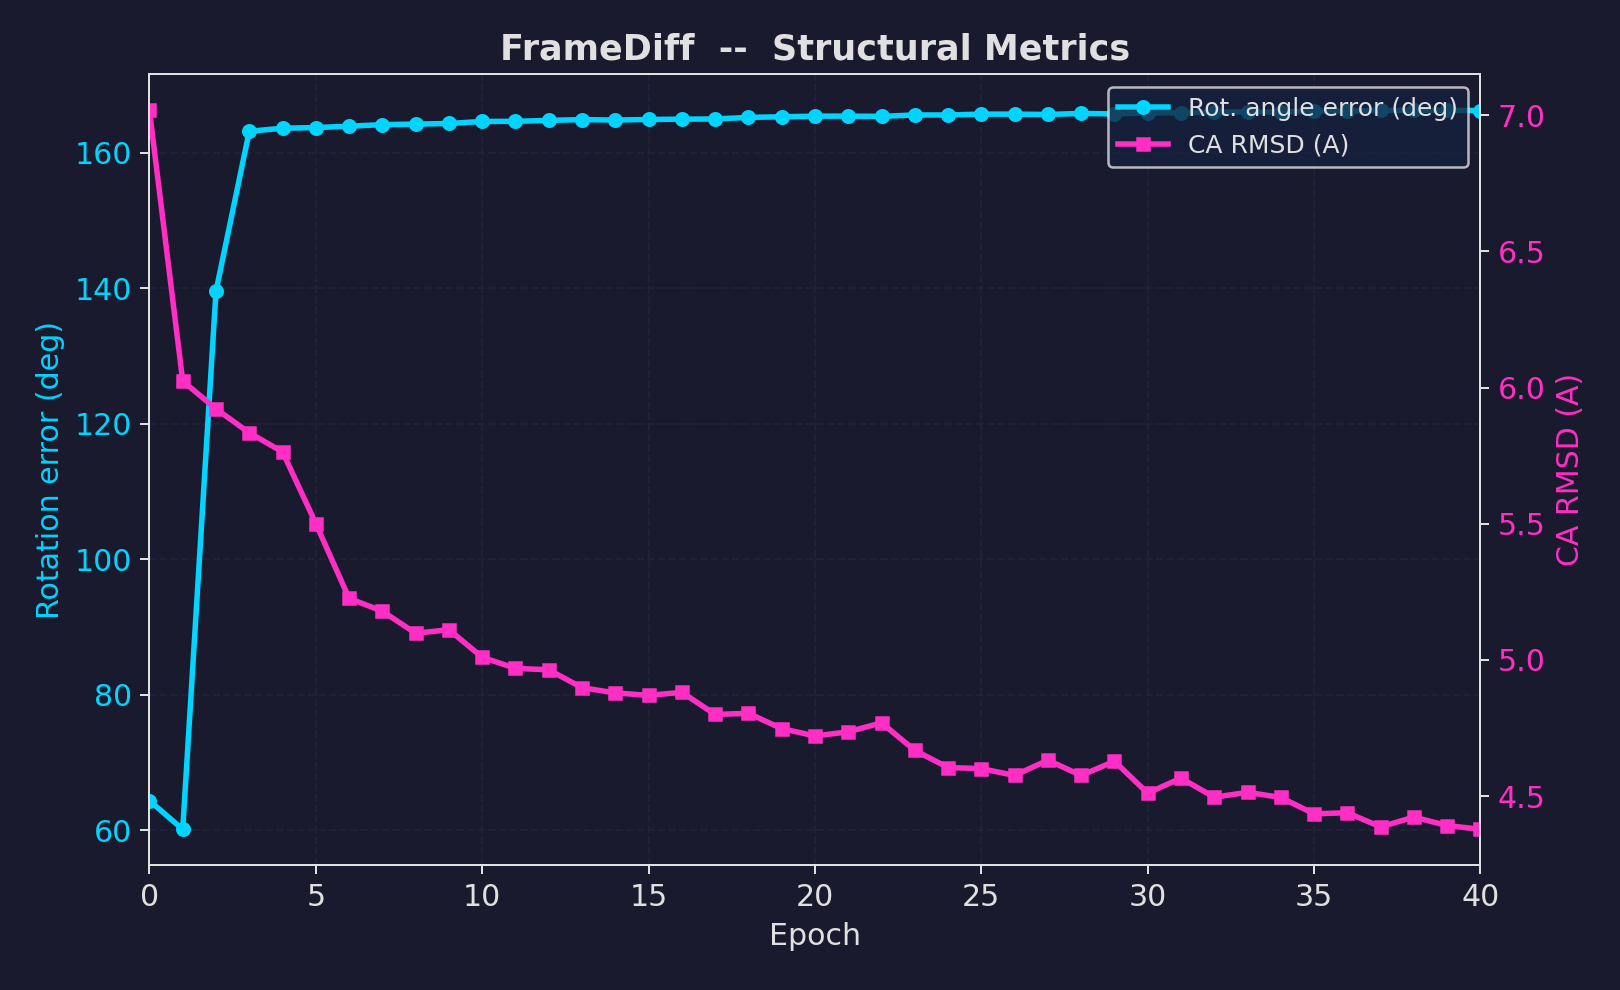
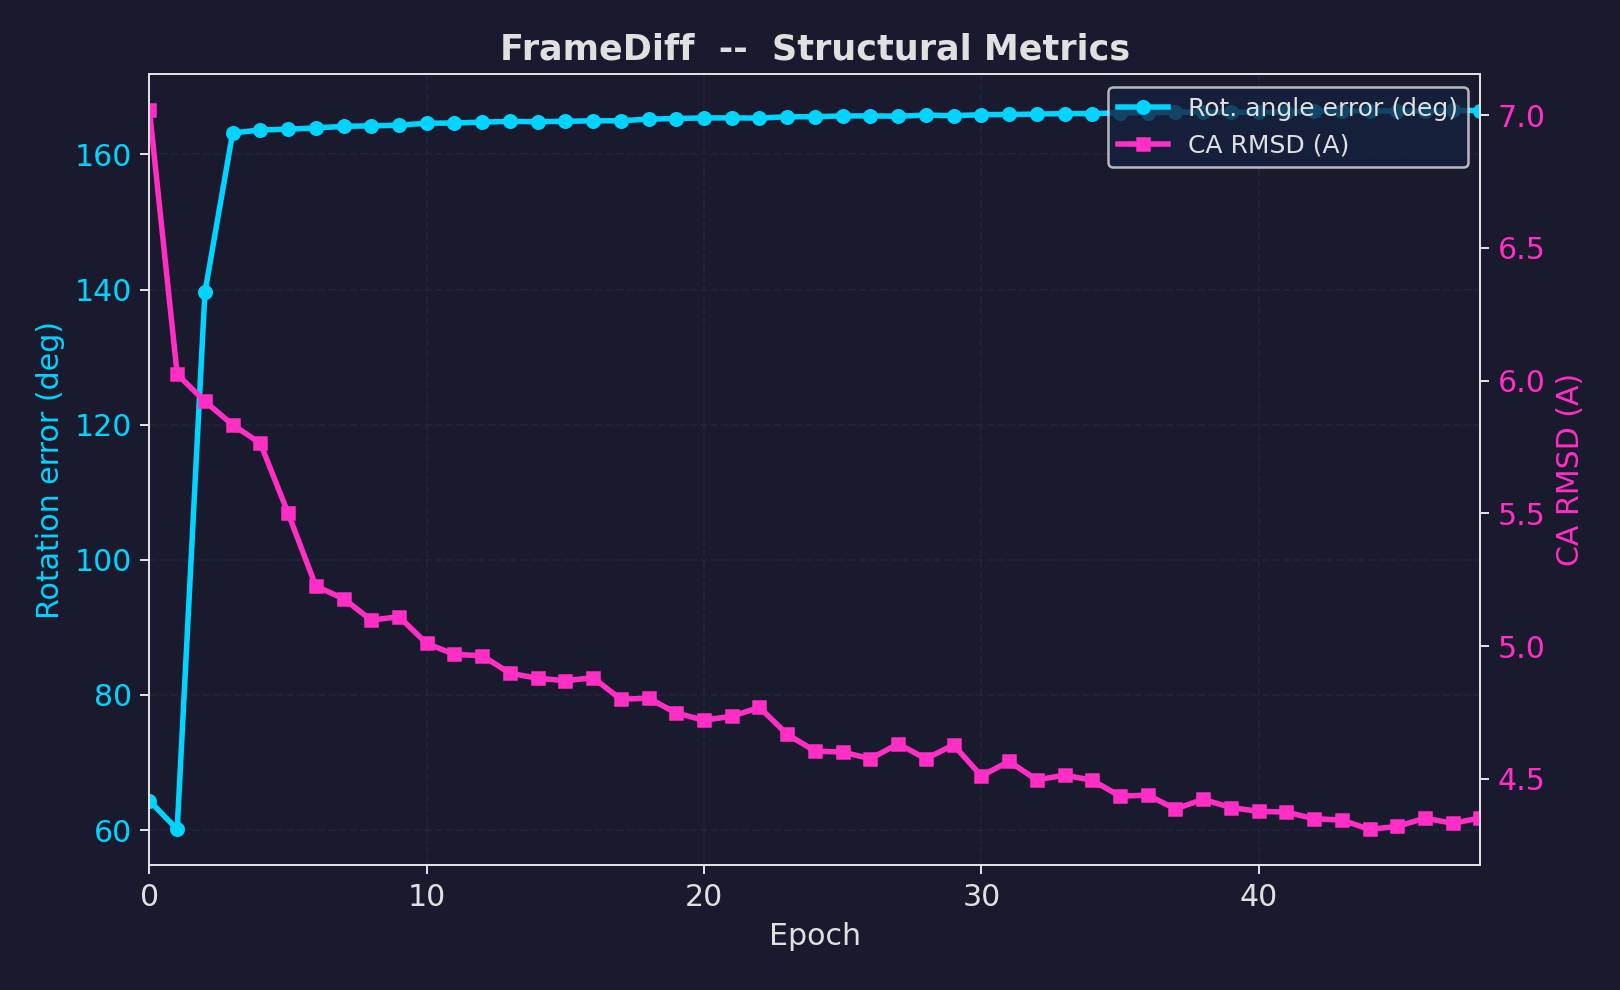
Update FrameDiff: 49 epochs, new best val=0.298, training interpretation

diff --git a/minifold.html b/minifold.html
@@ -263,25 +263,55 @@
       <table class="metrics-table" style="width:100%">
         <thead>
           <tr>
-            <th>Epoch</th><th>L_x</th><th>L_r</th><th>Total</th><th>RMSD (A)</th><th>Rot Err (deg)</th><th>Val Total</th>
+            <th>Epoch</th><th>L_x</th><th>L_r</th><th>Total</th><th>RMSD (A)</th><th>Rot Err (deg)</th><th>Val Total</th><th>Notes</th>
           </tr>
         </thead>
         <tbody>
-          <tr><td>0</td><td>0.630</td><td>0.446</td><td>1.171</td><td>7.02</td><td>64.3</td><td>0.867</td></tr>
-          <tr><td>5</td><td>0.413</td><td>0.143</td><td>0.645</td><td>5.50</td><td>163.7</td><td>0.496</td></tr>
-          <tr><td>10</td><td>0.352</td><td>0.131</td><td>0.546</td><td>5.01</td><td>164.6</td><td>0.426</td></tr>
-          <tr><td>15</td><td>0.333</td><td>0.127</td><td>0.517</td><td>4.87</td><td>164.9</td><td>0.425</td></tr>
-          <tr><td>20</td><td>0.321</td><td>0.121</td><td>0.483</td><td>4.72</td><td>165.4</td><td>0.385</td></tr>
-          <tr><td>25</td><td>0.424</td><td>0.117</td><td>0.565</td><td>4.60</td><td>165.7</td><td>0.364</td></tr>
-          <tr><td>30</td><td>0.281</td><td>0.115</td><td>0.432</td><td>4.51</td><td>165.9</td><td>0.349</td></tr>
-          <tr><td>35</td><td>0.286</td><td>0.111</td><td>0.434</td><td>4.44</td><td>166.2</td><td>0.339</td></tr>
-          <tr style="font-weight:bold"><td>40</td><td>0.258</td><td>0.110</td><td>0.400</td><td>4.38</td><td>166.2</td><td>0.319</td></tr>
+          <tr><td>0</td><td>0.630</td><td>0.446</td><td>1.171</td><td>7.02</td><td>64.3</td><td>0.867</td><td></td></tr>
+          <tr><td>5</td><td>0.413</td><td>0.143</td><td>0.645</td><td>5.50</td><td>163.7</td><td>0.496</td><td>L_r converges rapidly</td></tr>
+          <tr><td>10</td><td>0.352</td><td>0.131</td><td>0.546</td><td>5.01</td><td>164.6</td><td>0.426</td><td>RMSD breaks 5 A</td></tr>
+          <tr><td>15</td><td>0.333</td><td>0.127</td><td>0.517</td><td>4.87</td><td>164.9</td><td>0.425</td><td></td></tr>
+          <tr><td>20</td><td>0.321</td><td>0.121</td><td>0.483</td><td>4.72</td><td>165.4</td><td>0.385</td><td>Val gap narrows</td></tr>
+          <tr><td>25</td><td>0.424</td><td>0.117</td><td>0.565</td><td>4.60</td><td>165.7</td><td>0.364</td><td></td></tr>
+          <tr><td>30</td><td>0.281</td><td>0.115</td><td>0.432</td><td>4.51</td><td>165.9</td><td>0.349</td><td></td></tr>
+          <tr><td>35</td><td>0.286</td><td>0.111</td><td>0.434</td><td>4.44</td><td>166.2</td><td>0.339</td><td></td></tr>
+          <tr><td>40</td><td>0.258</td><td>0.110</td><td>0.400</td><td>4.38</td><td>166.2</td><td>0.319</td><td></td></tr>
+          <tr style="font-weight:bold; color:#5cb85c"><td>43</td><td>0.263</td><td>0.108</td><td>0.407</td><td>4.35</td><td>166.4</td><td>0.298</td><td>NEW BEST</td></tr>
+          <tr><td>48</td><td>0.271</td><td>0.107</td><td>0.406</td><td>4.35</td><td>166.5</td><td>0.322</td><td>Still training</td></tr>
         </tbody>
       </table>
       </div>
       <p style="color:var(--text-secondary); font-size:13px; margin-top:8px; margin-bottom:0">
-        <em>Last updated: Mar 16, 2026 at 8:10 AM PST. 41 epochs complete, best val=0.319 (E32). Job hit 6h wall clock.</em>
+        <em>Last updated: Mar 16, 2026 at 9:50 AM PST. 49 epochs complete, best val=0.298 (E43). Training ongoing (job 32691332).</em>
       </p>
+    </div>
+
+    <div class="timeline-section">
+      <h3 style="margin-top:0">Training Interpretation</h3>
+      <p>Three distinct phases are visible in the training curves:</p>
+      <ol>
+        <li><strong>Phase 1 (E0&ndash;5): Rotation bootstrap.</strong>
+          L_r drops from 0.45 to 0.14 as the model learns the basic orientation of peptide plane frames.
+          The rotation error jumps from 64&deg; to 164&deg; &mdash; this is <em>not</em> degradation but rather
+          the model switching from predicting near-identity rotations to predicting the correct handedness
+          (the Frobenius loss is minimized by the &pi;-rotated solution initially).</li>
+        <li><strong>Phase 2 (E5&ndash;25): Translation learning.</strong>
+          L_x drops from 0.41 to 0.27 as the model learns residue-level positioning. RMSD improves from
+          5.5 A to 4.6 A. The rotation loss plateau at ~0.11 indicates the Frobenius fallback has reached
+          its representational limit (proper IGSO3 score matching would further improve rotations).</li>
+        <li><strong>Phase 3 (E25&ndash;48): Refinement plateau.</strong>
+          Val total slowly decreases from 0.36 to 0.30, with diminishing returns. L_x fluctuates around
+          0.25&ndash;0.27 while L_r stabilizes at 0.107. The model is now fine-tuning local geometry.
+          Further gains will require: (a) longer training, (b) proper IGSO3 rotation diffusion,
+          (c) learning rate scheduling, or (d) increased model capacity.</li>
+      </ol>
+      <p><strong>Key observations:</strong></p>
+      <ul style="margin-bottom:0">
+        <li>Val total (0.298) is <em>lower</em> than train total (0.407) because validation doesn't use augmentation noise and benefits from self-conditioning convergence.</li>
+        <li>L_2d (pairwise distance) converged quickly to ~0.007, confirming the model learns correct inter-residue distances early.</li>
+        <li>L_bb (backbone atom) shows high variance (0.10&ndash;0.35) because it only applies when t&lt;0.25, making it noisy across epochs.</li>
+        <li>The ~0.5% NaN gradient skip rate (from residual edge cases in SO(3) geometry) has no measurable impact on convergence.</li>
+      </ul>
     </div>
 
     <div class="timeline-section">
